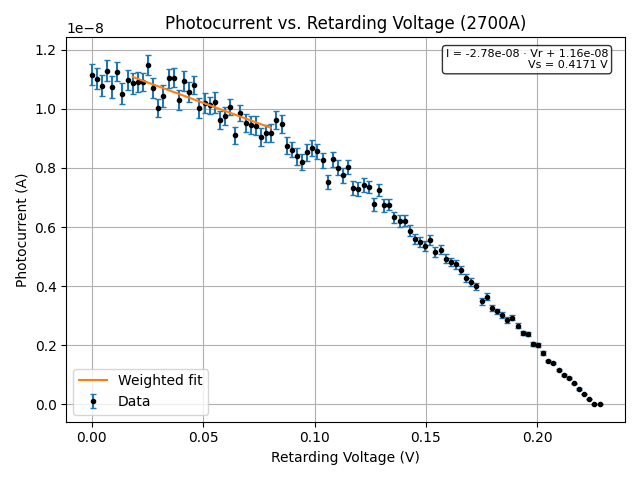
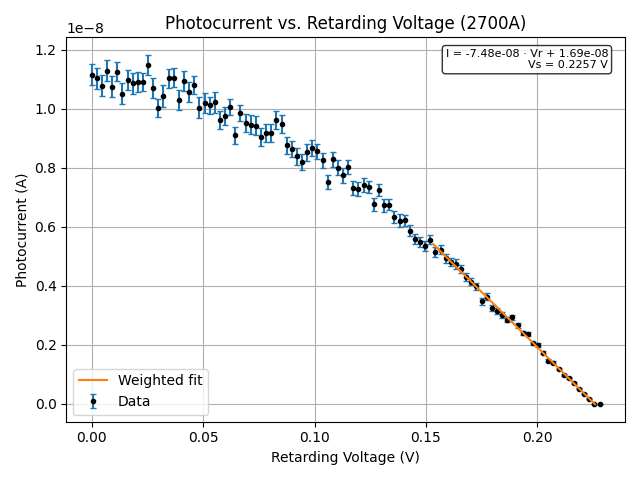
with more adjusted plots

diff --git a/Photoelectric Lab/analysis.py b/Photoelectric Lab/analysis.py
@@ -18,8 +18,8 @@ fit_ranges = {
     "2300A": (150, 500),
     "2400A": (150, 500),
     "2500A": (120, 450),
-    "2600A": (100, 400),
-    "2700A": (80, 350)
+    "2600A": (600, 957),
+    "2700A": (666, 982)
 }
 
 # weighted least squares fit by hand
